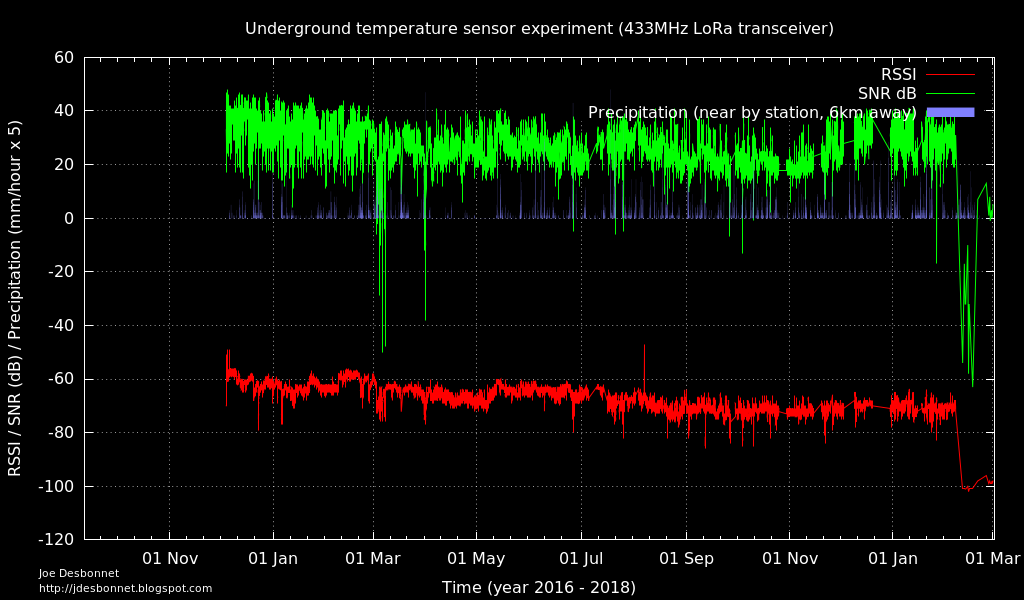
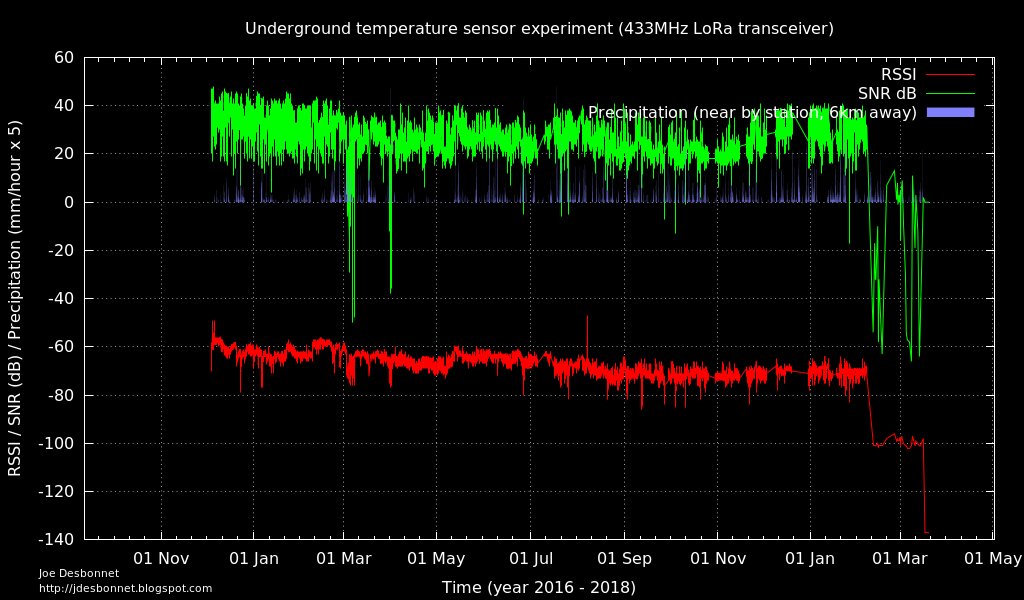
update charts

diff --git a/README.md b/README.md
@@ -8,6 +8,8 @@ The sensor is buried about 0.4m underground in my garden. The receiver is locate
 
 ![temperature at 10cm depth, Onagh Co. Roscommon](./charts/temperature-onagh.png)
 
+![temperature in freezer unit](./charts/temperature-freezer.png)
+
 The hardware is based on my LPC812/RFMxx experimentation board [1]  with a RFM95W [2] LoRa [3] transceiver module powered by a 18650 sized lithium iron phosphate cell (LiFePO4). LiFePO4 is more suitable for directly powering 3.3V electronics because it has a discharge curve ranging from 3.4V to 2.8V compared to regular LiPo which runs from about 4.2V to 3.4V (the voltage is too high for most of the discharge cycle).
 
 The precipitation data is taken from a weather station about 6km away located at NUIG university.
@@ -28,6 +30,14 @@ Firmware requires the following configuration:
   * Set low power poll mode and save configuration (command "M 2 S")
   
 ## Log 
+
+### 17 Feb 2018
+
+Experimenting with using this sensor in a freezer. Will the -20°C temperatures affect battery performance? Seems not.
+
+### 27 Feb 2018
+
+Soil sensor at Onagh orientation flipped to horizonal and completely burried now. Since 09:00 Monday 26 Feb 2018.
 
 ### 7 Feb 2018
 
